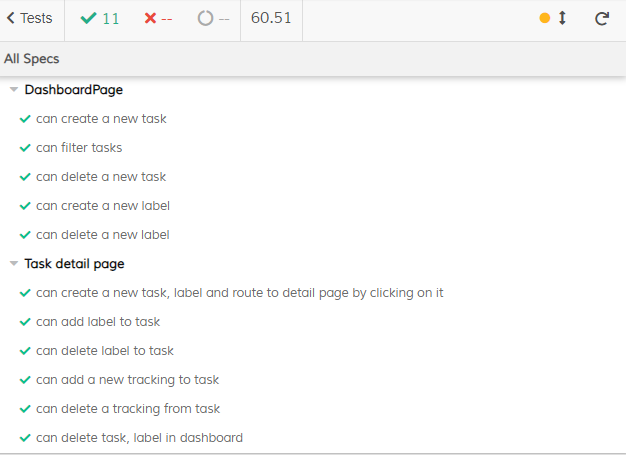
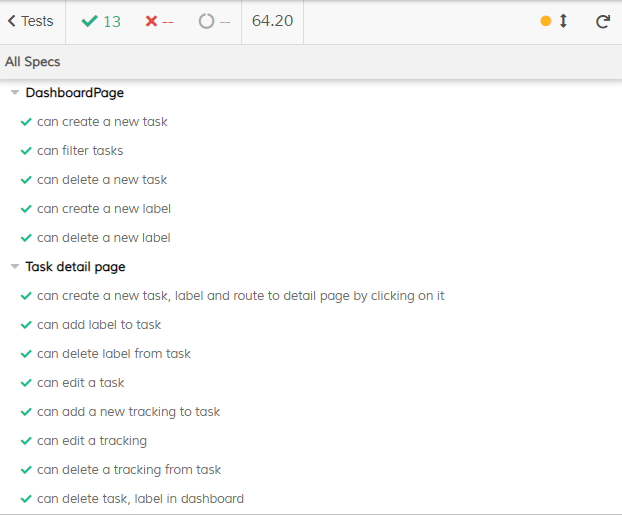
e2e test

diff --git a/app/cypress/cypress/integration/taskDetailSite.spec.js b/app/cypress/cypress/integration/taskDetailSite.spec.js
@@ -37,13 +37,26 @@ describe("Task detail page", () => {
     cy.screenshot();
   });
 
-  it("can delete label to task", () => {
+  it("can delete label from task", () => {
     cy.screenshot();
     
     cy.findByTestId(/delete-label-fromTask-button/i).click();
     cy.findByLabelText(/name/i).type(label.name);
-    cy.findByTestId("deleteLabelToTask").click();
+    cy.findByTestId("deleteLabelFromTask").click();
     cy.findByTestId("all-labelsFromTask-list").find("li").should("have.length", 0);
+
+    cy.screenshot();
+  });
+
+  it("can edit a task", () => {
+    cy.screenshot();
+    
+    const newDescription = "New Name";
+
+    cy.findByTestId(/edit-task-button/i).click();
+    cy.findByLabelText(/description/i).type(newDescription);
+    cy.findByTestId("editTask").click();
+    cy.findByTestId("task-description").contains(newDescription);
 
     cy.screenshot();
   });
@@ -59,10 +72,21 @@ describe("Task detail page", () => {
     cy.screenshot();
   });
 
+  it("can edit a tracking", () => {
+    cy.screenshot();
+    
+    cy.findByTestId("edit-tracking-button" + tracking.description).click();
+    cy.findByLabelText(/Time start/i).type(new Date().toString());
+    cy.findByTestId("editTracking").click();
+    cy.findByTestId("tracking-list").find("li").should("have.length", 1);
+
+    cy.screenshot();
+  });
+
   it("can delete a tracking from task", () => {
     cy.screenshot();
     
-    cy.findByTestId(/delete-tracking-button/i).click();
+    cy.findByTestId("delete-tracking-button" + tracking.description).click();
     cy.findByTestId("tracking-list").find("li").should("have.length", 0);
 
     cy.screenshot();

diff --git a/app/cypress/cypress/integration/dashboard.spec.js b/app/cypress/cypress/integration/dashboard.spec.js
@@ -20,13 +20,27 @@ describe("DashboardPage", () => {
     cy.screenshot();
   });
 
+  // it("can start timer of a task", () => {
+  //   cy.visit("/");
+  //   cy.screenshot();
+  //   const description = "Description";
+
+  //   cy.findByTestId("start-timer-button" + task.name).click();
+  //   cy.wait(1000);
+  //   cy.findByLabelText("What do you do?").type(description);
+  //   cy.wait(1000);
+
+  //   cy.findByTestId("stop-button").click();
+  //   cy.findByTestId("task-list").find("li").should("have.length", 1);
+  // });
+
   it("can filter tasks", () => {
     cy.visit("/");
     cy.screenshot();
     cy.findByTestId(/filter-task-button/i).click();
     cy.findByLabelText(/task name/i).type(task.name);
 
-    cy.findByText("Save filter").click();
+    cy.findByTestId("saveFilter").click();
     cy.findByTestId("task-list").find("li").should("have.length", 1);
   });
 

diff --git a/app/frontend/src/pages/Dashboard/components/TaskList.tsx b/app/frontend/src/pages/Dashboard/components/TaskList.tsx
@@ -217,7 +217,7 @@ export const TaskItem: React.FC<TaskItemProps> = ({
         </div>
       </TaskFlex>
       <div>
-        <SmallButton disabled={props.taskId.toString() == taskId || props.taskId.toString() == 0 ? false : true}
+        <SmallButton data-testid={"start-timer-button" + task.name} disabled={props.taskId.toString() == taskId || props.taskId.toString() == 0 ? false : true}
           onClick={() => {
             if (!(props.taskId.toString() == taskId)) {
               onChange({ taskId: taskId, name: name });

diff --git a/app/frontend/src/pages/Dashboard/components/TrackTimeForm.tsx b/app/frontend/src/pages/Dashboard/components/TrackTimeForm.tsx
@@ -133,7 +133,7 @@ export const TrackTimeForm: React.FC<{ afterSubmit: () => void; task: any; fetch
           autoComplete="off"
         />
         <H2Styled>{time}</H2Styled>
-        <RoundedButton type="submit" disabled={pause} onClick={() => {
+        <RoundedButton data-testid="stop-button" type="submit" disabled={pause} onClick={() => {
           if (values.description !== "") {
             setStop(true);
           }

diff --git a/app/frontend/src/pages/Task/TaskPage.tsx b/app/frontend/src/pages/Task/TaskPage.tsx
@@ -164,7 +164,7 @@ export const TaskPage = () => {
         <TaskItemStyle>
           <TaskFlex>
             <div>
-              <TaskDescription>{task?.description}</TaskDescription>
+              <TaskDescription data-testid="task-description">{task?.description}</TaskDescription>
               <Label>
                 <LabelsSpan>Labels:</LabelsSpan>
                 <LabelList data-testid="all-labelsFromTask-list">

diff --git a/app/frontend/src/pages/Task/components/TrackingList.tsx b/app/frontend/src/pages/Task/components/TrackingList.tsx
@@ -147,7 +147,7 @@ export const TrackingItem: React.FC<TrackingItemProps> = ({
           </div>
         </TrackingFlex>
         <div>
-          <SmallButton onClick={() => {
+          <SmallButton data-testid={"edit-tracking-button" + tracking.description} onClick={() => {
             setEditTrackingVisible(!editTrackingVisible);
           }}
           >Edit tracking</SmallButton>

diff --git a/app/frontend/src/pages/Dashboard/components/FilterForm.tsx b/app/frontend/src/pages/Dashboard/components/FilterForm.tsx
@@ -43,7 +43,7 @@ export const FilterForm: React.FC<{ afterSubmit: () => void; filter: any; setFil
         onChange={fieldDidChange}
         autoComplete="off"
       />
-      <Button type="submit">Save filter</Button>
+      <Button type="submit" data-testid="saveFilter">Save changes</Button>
     </form>
   );
 };

diff --git a/app/frontend/src/pages/Task/components/EditTrackingForm.tsx b/app/frontend/src/pages/Task/components/EditTrackingForm.tsx
@@ -76,7 +76,7 @@ export const EditTrackingForm: React.FC<{ afterSubmit: () => void; tracking: Tra
         autoComplete="off"
         required
       />
-      <Button type="submit">Save changes</Button>
+      <Button type="submit" data-testid="editTracking">Save changes</Button>
     </form>
   );
 };

diff --git a/app/frontend/src/pages/Task/components/DeleteLabelFromTaskForm.tsx b/app/frontend/src/pages/Task/components/DeleteLabelFromTaskForm.tsx
@@ -54,7 +54,7 @@ export const DeleteLabelToTaskForm: React.FC<{ afterSubmit: () => void, taskId: 
       />
 
 
-      <Button type="submit" data-testid="deleteLabelToTask">Delete label</Button>
+      <Button type="submit" data-testid="deleteLabelFromTask">Delete label</Button>
     </form>
   );
 };

diff --git a/app/frontend/src/pages/Task/components/EditTaskForm.tsx b/app/frontend/src/pages/Task/components/EditTaskForm.tsx
@@ -57,7 +57,7 @@ export const EditTaskForm: React.FC<{ afterSubmit: () => void; task: Task; }> = 
         autoComplete="off"
         required
       />
-      <Button type="submit">Save changes</Button>
+      <Button type="submit" data-testid="editTask">Save changes</Button>
     </form>
   );
 };
